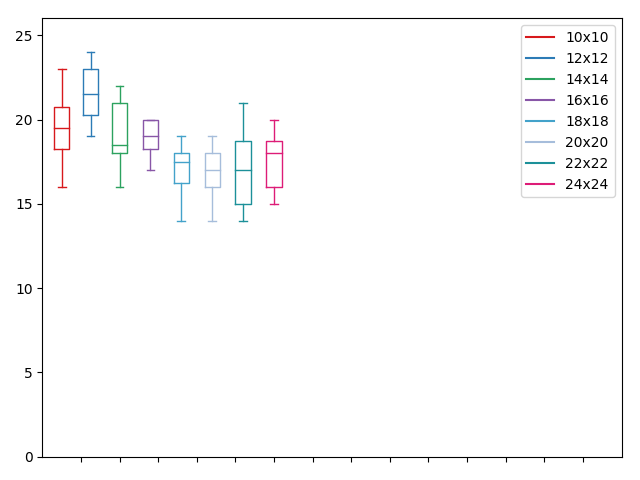
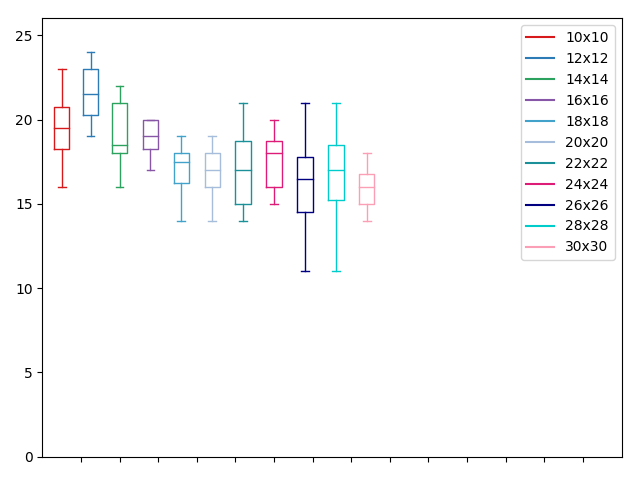
Finish 26x26, 28x28, 30x30

Changed region(s): [[0.4375, 0.2188, 0.5938, 0.5625], [0.8125, 0.4062, 0.9688, 0.5312], [0.8125, 0.4688, 0.8438, 0.5312]]

diff --git a/Projeto/plot/GridSize/Accuracy/accuracyPlotData.py b/Projeto/plot/GridSize/Accuracy/accuracyPlotData.py
@@ -9,10 +9,10 @@ data_e = [[0.9445,0.9556,0.9514,0.9567,0.9503,0.9493,0.9482,0.9477,0.9641,0.9487
 data_f = [[0.9641,0.9567,0.9582,0.9593,0.9535, 0.9487,0.9556,0.9619,0.9535,0.953]]
 data_g = [[0.9561,0.9619,0.9625,0.9672,0.9609,0.9567,0.9556,0.9598,0.9598,0.9572]]
 data_h = [[0.9609,0.9582,0.9688,0.9635,0.9651,0.9646,0.9588,0.9667,0.9598,0.9593]]
-#data_i = [[5,4,1]]
-#data_j = [[4,5,3]]
-#data_k = [[3,5,6]]
-#data_l = [[2,3,6]]
+data_i = [[0.963,0.9567,0.963,0.9678,0.9662, 0.9704,0.9688,0.9593,0.9656,0.9651]]
+data_j = [[0.9672,0.9683,0.9704,0.972,0.972,0.9678,0.9752,0.9604,0.9651,0.9683]]
+data_k = [[0.972,0.9651,0.9672,0.9704,0.973,0.9736,0.9699,0.9693,0.9704,0.9699]]
+data_l = [[0.9715]]
 #data_m = [[3,1,5]]
 #data_n = [[4,1,3]]
 #data_o = [[4,1,2]]
@@ -35,10 +35,10 @@ bpu = plt.boxplot(data_e, positions=np.array(range(len(data_e)))*2.0+5.2, sym=''
 bpv = plt.boxplot(data_f, positions=np.array(range(len(data_f)))*2.0+6.8 , sym='', widths=0.8)
 bpx = plt.boxplot(data_g, positions=np.array(range(len(data_g)))*2.0+8.4, sym='', widths=0.8)
 bpw = plt.boxplot(data_h, positions=np.array(range(len(data_h)))*2.0+10.0, sym='', widths=0.8)
-#bpy = plt.boxplot(data_i, positions=np.array(range(len(data_i)))*2.0+11.6, sym='', widths=0.8)
-#bpz = plt.boxplot(data_j, positions=np.array(range(len(data_j)))*2.0+13.2, sym='', widths=0.8)
-#bpa = plt.boxplot(data_k, positions=np.array(range(len(data_k)))*2.0+14.8, sym='', widths=0.8)
-#bpb = plt.boxplot(data_l, positions=np.array(range(len(data_l)))*2.0+16.4, sym='', widths=0.8)
+bpy = plt.boxplot(data_i, positions=np.array(range(len(data_i)))*2.0+11.6, sym='', widths=0.8)
+bpz = plt.boxplot(data_j, positions=np.array(range(len(data_j)))*2.0+13.2, sym='', widths=0.8)
+bpa = plt.boxplot(data_k, positions=np.array(range(len(data_k)))*2.0+14.8, sym='', widths=0.8)
+bpb = plt.boxplot(data_l, positions=np.array(range(len(data_l)))*2.0+16.4, sym='', widths=0.8)
 #bpc = plt.boxplot(data_m, positions=np.array(range(len(data_m)))*2.0+18.0, sym='', widths=0.8)
 #bpd = plt.boxplot(data_n, positions=np.array(range(len(data_n)))*2.0+19.6, sym='', widths=0.8)
 #bpe = plt.boxplot(data_o, positions=np.array(range(len(data_o)))*2.0+21.2, sym='', widths=0.8)
@@ -51,10 +51,10 @@ set_box_color(bpu, '#43a2ca')
 set_box_color(bpv, '#a6bddb')
 set_box_color(bpx, '#1c9099')
 set_box_color(bpw, '#dd1c77')
-#set_box_color(bpy, '#addd8e')
-#set_box_color(bpz, '#99d8c9')
-#set_box_color(bpa, '#fa9fb5')
-#set_box_color(bpb, '#636363')
+set_box_color(bpy, '#000080')
+set_box_color(bpz, '#00cccc')
+set_box_color(bpa, '#fa9fb5')
+set_box_color(bpb, '#636363')
 #set_box_color(bpc, '#e34a33')
 #set_box_color(bpd, '#fdbb84')
 #set_box_color(bpe, '#9ebcda')
@@ -68,10 +68,10 @@ plt.plot([], c='#43a2ca', label='18x18')
 plt.plot([], c='#a6bddb', label='20x20')
 plt.plot([], c='#1c9099', label='22x22')
 plt.plot([], c='#dd1c77', label='24x24')
-#plt.plot([], c='#addd8e', label='ABC9')
-#plt.plot([], c='#99d8c9', label='ABC10')
-#plt.plot([], c='#fa9fb5', label='ABC11')
-#plt.plot([], c='#636363', label='ABC12')
+plt.plot([], c='#000080', label='26x26')
+plt.plot([], c='#00cccc', label='28x28')
+plt.plot([], c='#fa9fb5', label='30x30')
+plt.plot([], c='#636363', label='32x32')
 #plt.plot([], c='#e34a33', label='ABC13')
 #plt.plot([], c='#fdbb84', label='ABC14')
 #plt.plot([], c='#', label='ABC15')

diff --git a/Projeto/plot/GridSize/Errors/errorPlotData.py b/Projeto/plot/GridSize/Errors/errorPlotData.py
@@ -9,10 +9,10 @@ data_e = [[21,16,19,17,18,16,18,17,14,18]]
 data_f = [[16,18,16,15,19,18,19,16,14,18]]
 data_g = [[21,15,17,14,15,15,19,19,17,18]]
 data_h = [[15,18,16,19,16,16,18,18,20,19]]
-#data_i = [[5,4,1]]
-#data_j = [[4,5,3]]
-#data_k = [[3,5,6]]
-#data_l = [[2,3,6]]
+data_i = [[18,21,16,14,16,17,17,19,11,14]]
+data_j = [[17,19,11,15,15,17,16,17,20,21]]
+data_k = [[14,16,16,16,15,17,15,15,17,18]]
+data_l = [[14]]
 #data_m = [[3,1,5]]
 #data_n = [[4,1,3]]
 #data_o = [[4,1,2]]
@@ -35,10 +35,10 @@ bpu = plt.boxplot(data_e, positions=np.array(range(len(data_e)))*2.0+5.2, sym=''
 bpv = plt.boxplot(data_f, positions=np.array(range(len(data_f)))*2.0+6.8 , sym='', widths=0.8)
 bpx = plt.boxplot(data_g, positions=np.array(range(len(data_g)))*2.0+8.4, sym='', widths=0.8)
 bpw = plt.boxplot(data_h, positions=np.array(range(len(data_h)))*2.0+10.0, sym='', widths=0.8)
-#bpy = plt.boxplot(data_i, positions=np.array(range(len(data_i)))*2.0+11.6, sym='', widths=0.8)
-#bpz = plt.boxplot(data_j, positions=np.array(range(len(data_j)))*2.0+13.2, sym='', widths=0.8)
-#bpa = plt.boxplot(data_k, positions=np.array(range(len(data_k)))*2.0+14.8, sym='', widths=0.8)
-#bpb = plt.boxplot(data_l, positions=np.array(range(len(data_l)))*2.0+16.4, sym='', widths=0.8)
+bpy = plt.boxplot(data_i, positions=np.array(range(len(data_i)))*2.0+11.6, sym='', widths=0.8)
+bpz = plt.boxplot(data_j, positions=np.array(range(len(data_j)))*2.0+13.2, sym='', widths=0.8)
+bpa = plt.boxplot(data_k, positions=np.array(range(len(data_k)))*2.0+14.8, sym='', widths=0.8)
+bpb = plt.boxplot(data_l, positions=np.array(range(len(data_l)))*2.0+16.4, sym='', widths=0.8)
 #bpc = plt.boxplot(data_m, positions=np.array(range(len(data_m)))*2.0+18.0, sym='', widths=0.8)
 #bpd = plt.boxplot(data_n, positions=np.array(range(len(data_n)))*2.0+19.6, sym='', widths=0.8)
 #bpe = plt.boxplot(data_o, positions=np.array(range(len(data_o)))*2.0+21.2, sym='', widths=0.8)
@@ -51,10 +51,10 @@ set_box_color(bpu, '#43a2ca')
 set_box_color(bpv, '#a6bddb')
 set_box_color(bpx, '#1c9099')
 set_box_color(bpw, '#dd1c77')
-#set_box_color(bpy, '#addd8e')
-#set_box_color(bpz, '#99d8c9')
-#set_box_color(bpa, '#fa9fb5')
-#set_box_color(bpb, '#636363')
+set_box_color(bpy, '#000080')
+set_box_color(bpz, '#00cccc')
+set_box_color(bpa, '#fa9fb5')
+set_box_color(bpb, '#636363')
 #set_box_color(bpc, '#e34a33')
 #set_box_color(bpd, '#fdbb84')
 #set_box_color(bpe, '#9ebcda')
@@ -68,10 +68,10 @@ plt.plot([], c='#43a2ca', label='18x18')
 plt.plot([], c='#a6bddb', label='20x20')
 plt.plot([], c='#1c9099', label='22x22')
 plt.plot([], c='#dd1c77', label='24x24')
-#plt.plot([], c='#addd8e', label='ABC9')
-#plt.plot([], c='#99d8c9', label='ABC10')
-#plt.plot([], c='#fa9fb5', label='ABC11')
-#plt.plot([], c='#636363', label='ABC12')
+plt.plot([], c='#000080', label='26x26')
+plt.plot([], c='#00cccc', label='28x28')
+plt.plot([], c='#fa9fb5', label='30x30')
+plt.plot([], c='#636363', label='32x32')
 #plt.plot([], c='#e34a33', label='ABC13')
 #plt.plot([], c='#fdbb84', label='ABC14')
 #plt.plot([], c='#', label='ABC15')
